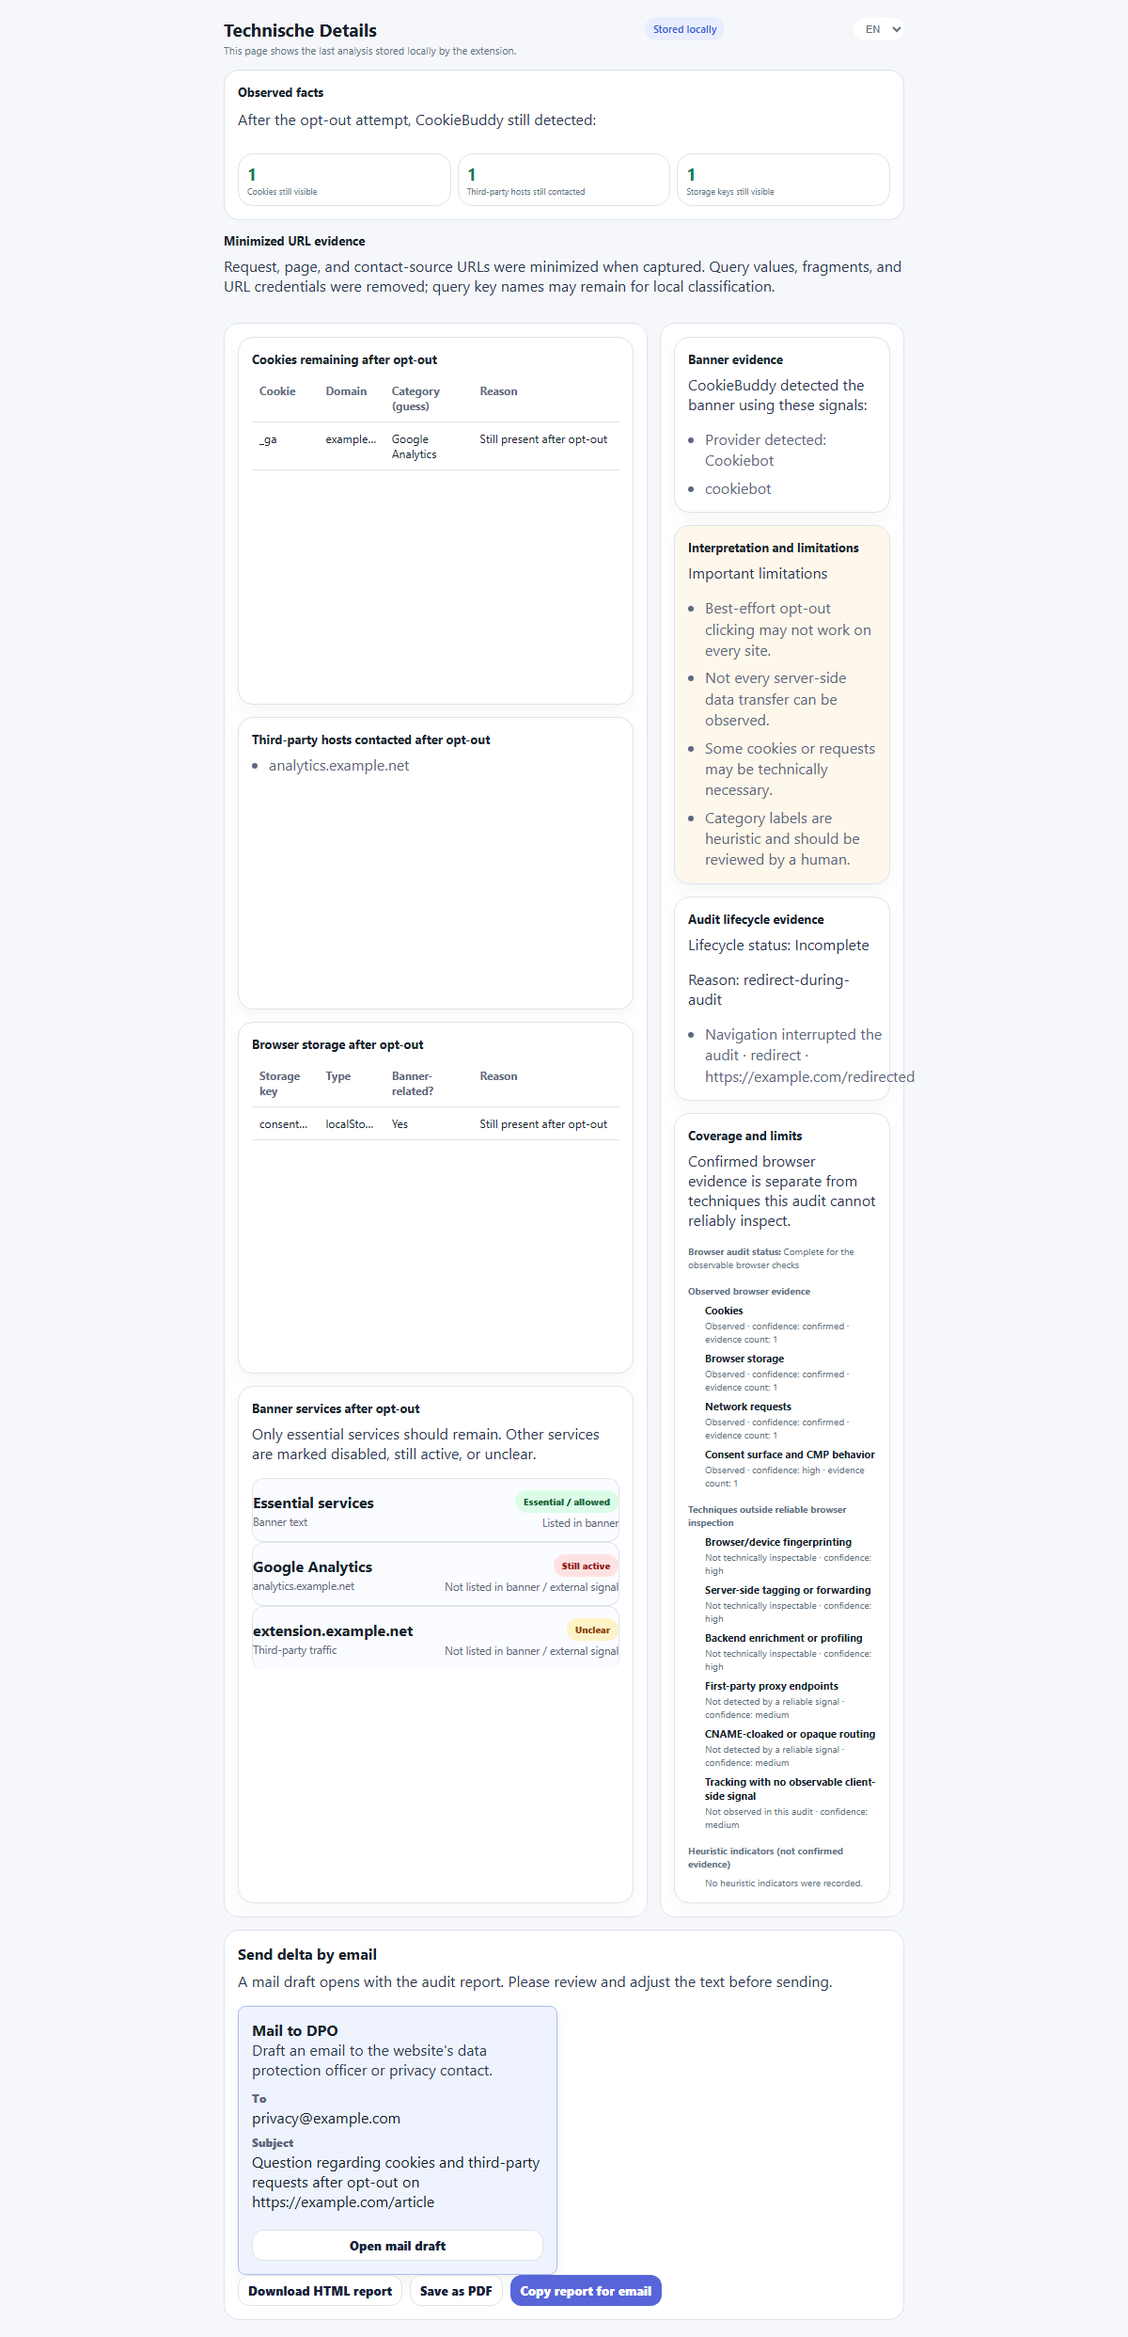
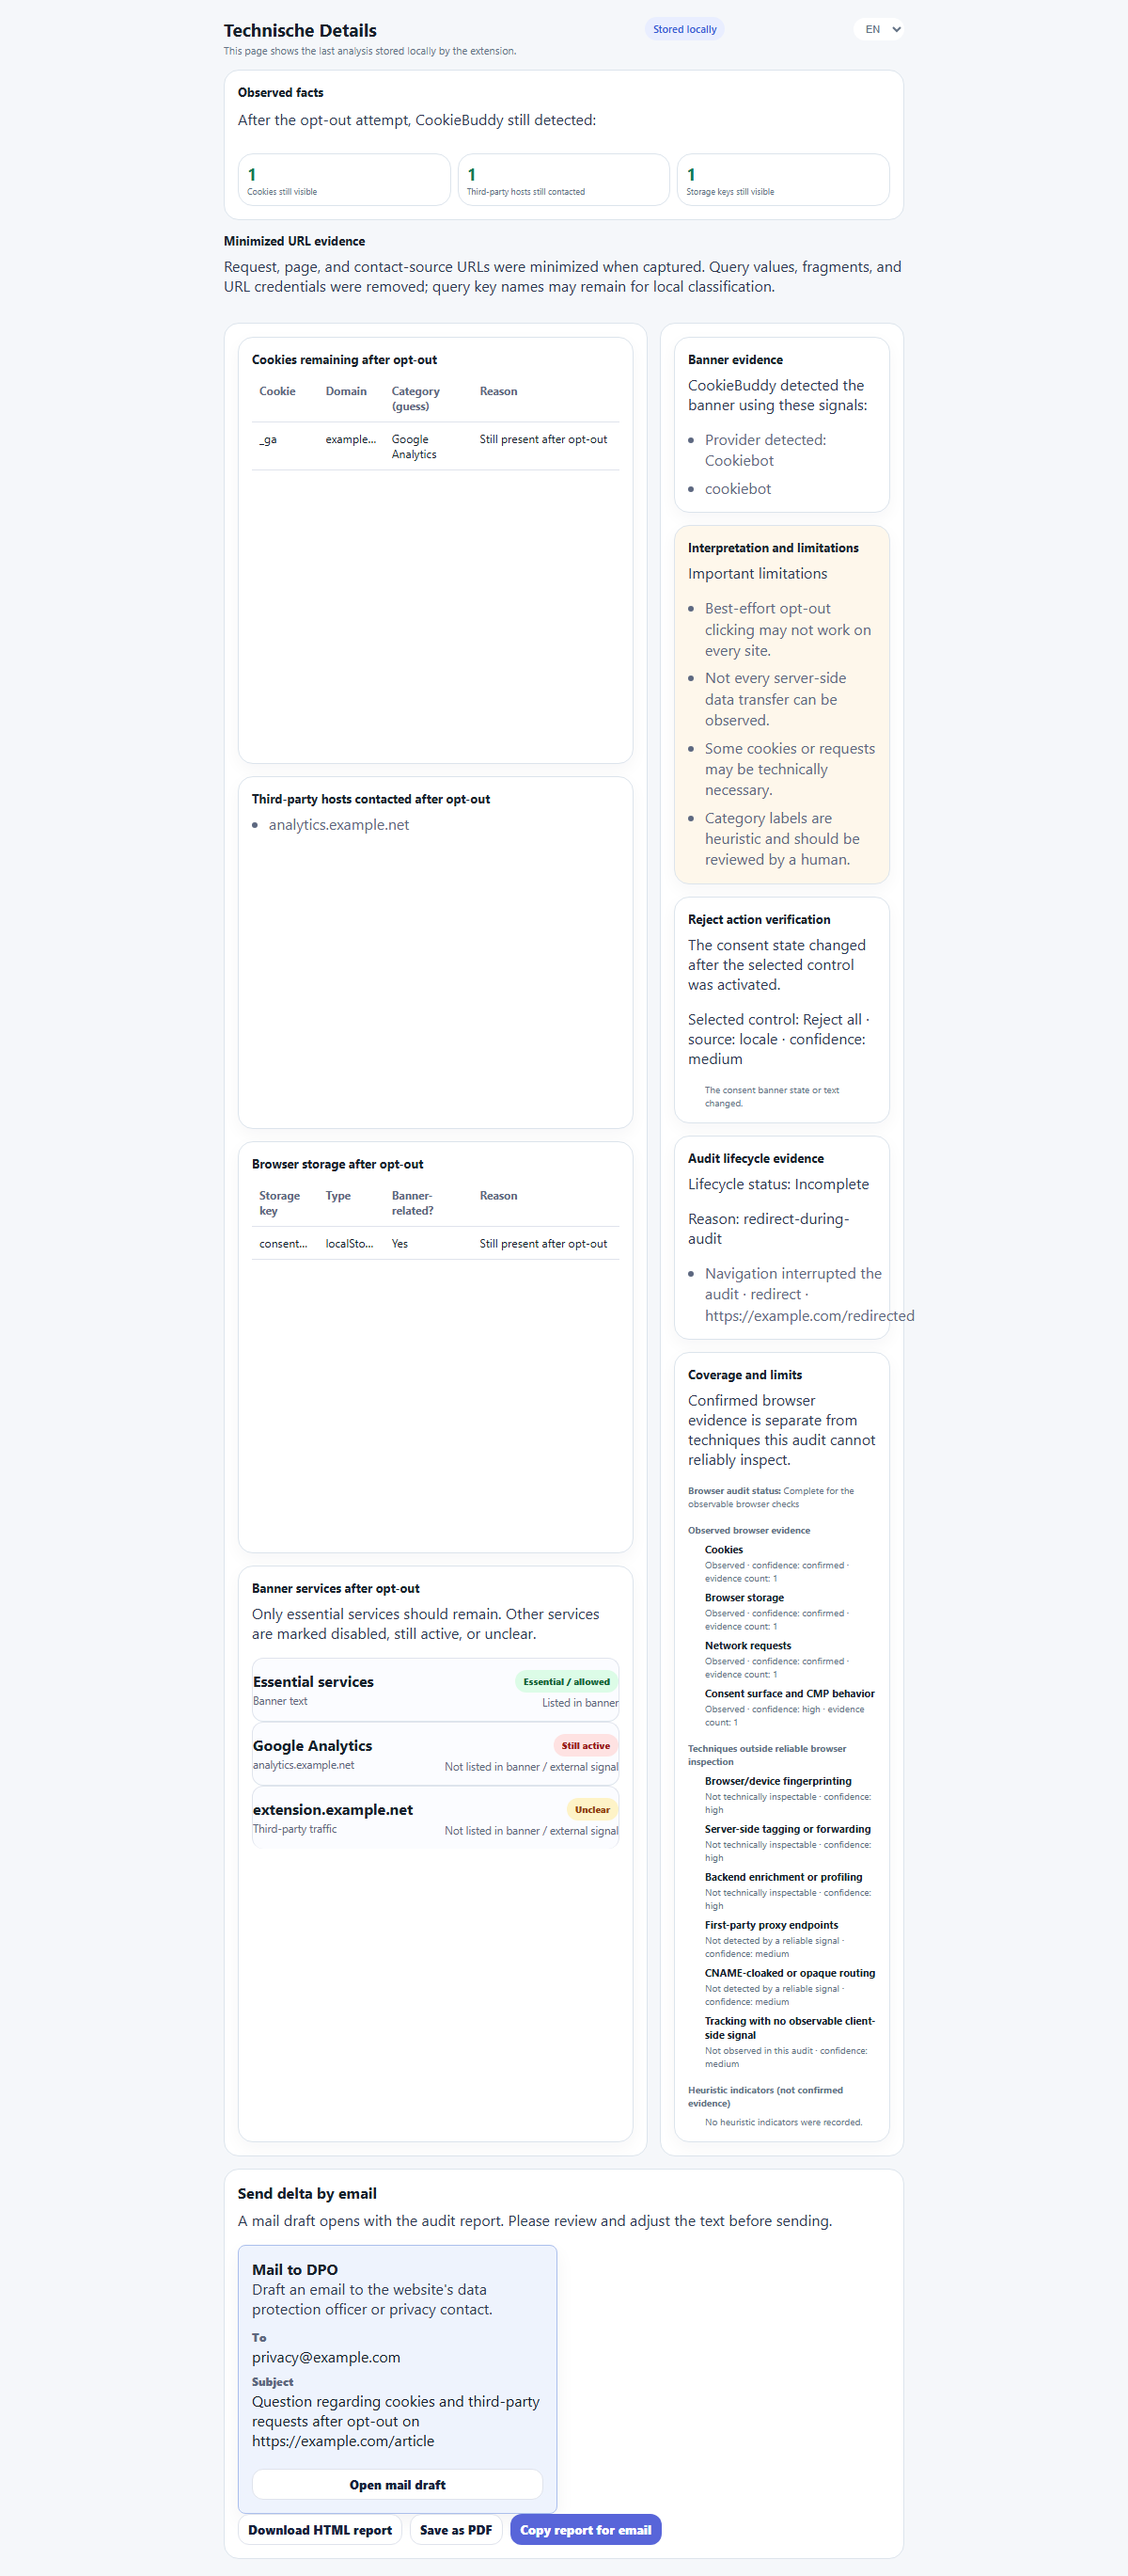
fix: verify consent rejection state changes

diff --git a/src/content.js b/src/content.js
@@ -1,5 +1,7 @@
 // Fallback embedded CMP signatures for when external fetch unavailable
 // Reviewed against common operational CMPs and IAB Europe TCF resources in June 2026.
+// Consent verification is loaded as a module in tests and mirrored here because
+// content scripts are injected as classic scripts in the extension.
 const FALLBACK_CMP_SIGNATURES = [
   { name: "Usercentrics", patterns: ["usercentrics", "uc-settings", "uc-center-container", "uc-privacy", "cmp.usercentrics"] },
   { name: "OneTrust", patterns: ["onetrust", "ot-sdk", "optanon", "cookiepro", "optanonconsent"] },
@@ -481,22 +483,55 @@ async function detectContacts() {
 }
 
 async function tryDenyAll() {
-  const candidates = collectDenyCandidates();
-  const clicked = candidates.find((button) => {
-    try {
-      button.click();
-      return true;
-    } catch {
-      return false;
-    }
-  });
+  let before = collectConsentState();
+  const excluded = new Set();
+  const actions = [];
+  let verification = { status: "unverified", evidence: [] };
 
-  await wait(1400);
+  for (let attempt = 0; attempt < 3; attempt += 1) {
+    const candidates = collectDenyCandidates(excluded);
+    if (!candidates.length) break;
+    const candidate = candidates[0];
+    excluded.add(candidate.element);
+    const label = consentControls?.getAccessibleName(candidate.element) || "";
+    let clicked = false;
+    try {
+      candidate.element.click();
+      clicked = true;
+    } catch {
+      // Continue to the next safe candidate when a control is no longer clickable.
+    }
+    if (!clicked) continue;
+
+    await wait(700);
+    const after = collectConsentState();
+    verification = evaluateConsentStateChange(before, after);
+    actions.push({
+      label: String(label).slice(0, 160),
+      source: candidate.classification.source,
+      confidence: candidate.classification.confidence,
+      status: verification.status,
+      evidence: verification.evidence
+    });
+    if (verification.status === "verified") break;
+    before = after;
+  }
+
+  const firstAction = actions[0];
+  const clicked = actions.length > 0;
+  const found = clicked || collectDenyCandidates().length > 0;
+  const status = verification.status === "verified" ? "verified" : clicked ? "unclear" : "not-attempted";
   return {
-    clicked: Boolean(clicked),
-    label: clicked && consentControls ? consentControls.getAccessibleName(clicked) : "",
-    found: candidates.length > 0,
-    reason: clicked ? "semantic-control-clicked" : candidates.length > 0 ? "safe-control-not-clickable" : "no-safe-control"
+    clicked,
+    verified: status === "verified",
+    label: firstAction?.label || "",
+    found,
+    reason: status === "verified" ? "consent-state-verified" : clicked ? "consent-state-unverified" : "no-safe-control",
+    verification: {
+      status,
+      evidence: [...new Set(actions.flatMap((action) => action.evidence || []))],
+      actions
+    }
   };
 }
 
@@ -546,16 +581,57 @@ function collectBannerOverviewCandidates() {
     .map(({ element }) => element);
 }
 
-function collectDenyCandidates() {
+function collectDenyCandidates(excluded = new Set()) {
   const selectorMatches = DENY_SELECTORS.flatMap((selector) => Array.from(document.querySelectorAll(selector)));
   return Array.from(new Set(selectorMatches))
     .filter((element) => element instanceof HTMLElement)
     .filter(isUsableConsentControl)
     .map((element) => ({ element, classification: classifyConsentElement(element) }))
     .filter(({ classification }) => ["deny-all", "essential-only"].includes(classification.kind) && classification.canClick)
+    .filter(({ element, classification }) => !excluded.has(element) && (isConsentSurfaceElement(element) || classification.source === "cmp"))
     .sort((left, right) => consentControlScore(right.classification) - consentControlScore(left.classification))
     .slice(0, PAGE_ANALYSIS_BUDGETS.maxConsentNodes)
-    .map(({ element }) => element);
+}
+
+function collectConsentState() {
+  const bannerText = normalizeConsentStateText(collectBannerText());
+  const signals = collectDomConsentSignals().map((signal) => signal.value).sort();
+  const candidates = collectDenyCandidates(excluded);
+  const controls = candidates.map(({ element }) => [
+    consentControls?.getAccessibleName(element) || "",
+    element.getAttribute("aria-checked") || "",
+    element.getAttribute("aria-pressed") || "",
+    element.getAttribute("aria-expanded") || "",
+    element.getAttribute("disabled") || ""
+  ].join("~")).sort();
+  return {
+    bannerVisible: Boolean(bannerText || signals.length),
+    bannerSignature: bannerText,
+    consentSignalSignature: signals.join("|") ,
+    controlStateSignature: controls.join("|"),
+    rejectCandidateCount: candidates.length
+  };
+}
+
+function evaluateConsentStateChange(before = {}, after = {}) {
+  const evidence = [];
+  if (before.rejectCandidateCount > after.rejectCandidateCount) evidence.push("reject-control-removed");
+  if (before.consentSignalSignature !== after.consentSignalSignature) evidence.push("consent-signals-changed");
+  if (before.bannerSignature !== after.bannerSignature) evidence.push("banner-state-changed");
+  if (before.controlStateSignature !== after.controlStateSignature) evidence.push("consent-control-state-changed");
+  const changed = evidence.length > 0;
+  const completed = changed && (after.rejectCandidateCount === 0 || after.bannerVisible === false);
+  return { status: completed ? "verified" : changed ? "changed-not-final" : "unverified", evidence };
+}
+
+function normalizeConsentStateText(value) {
+  return String(value || "").toLocaleLowerCase().replace(/\s+/g, " ").trim().slice(0, 3000);
+}
+
+function isConsentSurfaceElement(element) {
+  return Boolean(element.closest?.(
+    "[role='dialog'], [aria-modal='true'], [id*='cookie' i], [class*='cookie' i], [id*='consent' i], [class*='consent' i], [id*='privacy' i], [class*='privacy' i], [data-testid*='cookie' i], [data-testid*='consent' i]"
+  ));
 }
 
 function classifyConsentElement(element) {

diff --git a/src/popup.js b/src/popup.js
@@ -164,7 +164,7 @@ async function runDeltaCheck() {
     if (visualEvidenceItems[0]) visualEvidenceItems[0].rejectControlLabel = String(denyResult?.label || "").slice(0, 160);
     recordAuditEvent("reject");
     setAuditStep("reject", denyResult?.found ? "complete" : "manual", denyResult?.found ? "" : t("auditManualAction"));
-    setAuditStep("verify", denyResult?.clicked ? "complete" : "manual", denyResult?.clicked ? "" : t("auditManualAction"));
+    setAuditStep("verify", denyResult?.verified ? "complete" : "manual", denyResult?.verified ? "" : t("auditManualAction"));
     recordAuditEvent("verify");
     setAuditStep("observe", "active");
     await chrome.runtime.sendMessage({ target: "cookiebuddy-background", type: "CLEAR_TRAFFIC", tabId: state.tab.id });
@@ -195,7 +195,9 @@ async function runDeltaCheck() {
       banner: afterDeny.analysis?.banner || before.analysis?.banner || null,
       bannerCategories: afterDeny.analysis?.categories || before.analysis?.categories || {},
       denyClicked: denyResult?.clicked,
+      denyVerified: denyResult?.verified,
       denyLabel: denyResult?.label,
+      denyVerification: denyResult?.verification,
       manualConsentConfirmed: !denyResult?.found,
       labels: {
         deltaFoundSummary: t("deltaFoundSummary"),
@@ -688,6 +690,7 @@ function renderAuditVerdict(delta, verdict) {
           <span><strong>${escapeHtml(delta.remainingStorageEntries?.length || 0)}</strong>${escapeHtml(t("storageStillVisibleMetric"))}</span>
         </div>
         <p class="muted">${escapeHtml(delta.denyAction?.clicked ? t("clickedDenyControl", delta.denyAction.label || t("detectedButton")) : t("manualDenyAssumed"))}</p>
+        ${renderRejectVerification(delta.denyAction)}
         ${cookieItems.length ? `<h3>${escapeHtml(t("nonEssentialCookiesStillPresent"))}</h3>${cookieItems.map((cookie) => `<p class="chip">${escapeHtml(cookie.name)} · ${escapeHtml(cookie.domain)} · ${escapeHtml(cookie.service)}</p>`).join("")}` : ""}
         ${delta.thirdPartyHosts?.length ? `<h3>${escapeHtml(t("nonEssentialThirdPartyTrafficAfterOptOut"))}</h3>${delta.thirdPartyHosts.slice(0, 10).map((host) => `<p class="chip">${escapeHtml(host)}</p>`).join("")}` : ""}
         ${delta.essentialThirdPartyHosts?.length ? `<h3>${escapeHtml(t("essentialThirdPartyTrafficAllowed"))}</h3>${delta.essentialThirdPartyHosts.slice(0, 10).map((host) => `<p class="chip">${escapeHtml(host)}</p>`).join("")}` : ""}
@@ -705,6 +708,25 @@ function renderAuditVerdict(delta, verdict) {
   elements.deltaResult.innerHTML = html;
   if (elements.statusCardText) elements.statusCardText.textContent = `${meta.title}. ${meta.copy}`;
   return html;
+}
+
+function renderRejectVerification(denyAction = {}) {
+  const verification = denyAction.verification || {};
+  const statusCopy = denyAction.verified
+    ? t("rejectVerificationVerified")
+    : denyAction.clicked ? t("rejectVerificationUnclear") : t("rejectVerificationNotAttempted");
+  const firstAction = verification.actions?.[0];
+  const evidenceLabels = {
+    "reject-control-removed": t("rejectEvidenceControlRemoved"),
+    "consent-signals-changed": t("rejectEvidenceConsentSignals"),
+    "banner-state-changed": t("rejectEvidenceBannerChanged"),
+    "consent-control-state-changed": t("rejectEvidenceControlState")
+  };
+  const evidence = (verification.evidence || []).map((item) => `<li>${escapeHtml(evidenceLabels[item] || item)}</li>`).join("");
+  const selection = firstAction?.label
+    ? `<p class="muted">${escapeHtml(t("rejectControlSelected", [firstAction.label, firstAction.source || "unknown", firstAction.confidence || "unknown"]))}</p>`
+    : "";
+  return `<section class="reject-verification"><h3>${escapeHtml(t("rejectVerificationHeading"))}</h3><p class="muted">${escapeHtml(statusCopy)}</p>${selection}${evidence ? `<ul class="coverage-list">${evidence}</ul>` : ""}</section>`;
 }
 
 function renderCoverageSummary(coverage) {
@@ -880,7 +902,7 @@ async function updateIconStatus(delta = null) {
 function determineIconStatus(delta = null) {
   if (delta) {
     if (delta.riskLevel === "high") return "red";
-    if (delta.denyAction?.clicked && delta.thirdPartyHosts.length === 0 && delta.newCookies.length === 0 && delta.remainingCookies.length === 0) {
+    if (delta.denyAction?.clicked && delta.denyAction?.verified && delta.thirdPartyHosts.length === 0 && delta.newCookies.length === 0 && delta.remainingCookies.length === 0) {
       return "green";
     }
     return "yellow";

diff --git a/src/core.js b/src/core.js
@@ -166,7 +166,9 @@ export function buildDelta({
   banner = null,
   bannerCategories = {},
   denyClicked,
+  denyVerified = false,
   denyLabel,
+  denyVerification = null,
   manualConsentConfirmed,
   labels,
   tabUrl
@@ -190,8 +192,10 @@ export function buildDelta({
     url: minimizeUrlEvidence(tabUrl, { retainQueryKeys: false })?.url || "",
     denyAction: {
       clicked: Boolean(denyClicked),
+      verified: Boolean(denyVerified),
       label: denyLabel || "",
-      manual: Boolean(manualConsentConfirmed && !denyClicked)
+      manual: Boolean(manualConsentConfirmed && !denyClicked),
+      verification: denyVerification || { status: denyVerified ? "verified" : "unverified", evidence: [], actions: [] }
     },
     riskLevel: hasDelta ? "high" : "low",
     summary: hasDelta ? labels.deltaFoundSummary : labels.noDeltaSummary,
@@ -287,7 +291,7 @@ export function createCoverageSummary({ delta = {}, analysisComplete = true, heu
 export function deriveAuditVerdict(delta, { analysisComplete = true } = {}) {
   const coverage = delta?.coverage || createCoverageSummary({ delta, analysisComplete });
   const missingCoverage = [];
-  if (!delta?.denyAction?.clicked) missingCoverage.push("rejection-verification");
+  if (!delta?.denyAction?.clicked || !delta?.denyAction?.verified) missingCoverage.push("rejection-verification");
   if (!delta?.banner || delta.banner.confidence === "none") missingCoverage.push("consent-surface");
   if (!delta?.beforeCounts || !delta?.afterDenyCounts) missingCoverage.push("before-after-observation");
   if (!analysisComplete) missingCoverage.push("page-analysis");
@@ -391,13 +395,21 @@ export function formatDeltaReport(delta, url = "") {
   report += "DENY ACTION DETAILS\n";
   report += "═════════════════════════════════════════\n\n";
 
-  if (delta.denyAction.clicked) {
+  if (delta.denyAction.clicked && delta.denyAction.verified) {
     report += `✓ Deny button successfully clicked: "${delta.denyAction.label}"\n`;
+  } else if (delta.denyAction.clicked) {
+    report += `? Deny button clicked, but the consent change could NOT be verified: "${delta.denyAction.label}"\n`;
   } else {
     report += `✗ Deny button could NOT be clicked automatically\n`;
     if (delta.denyAction.label) {
       report += `  Expected button label: "${delta.denyAction.label}"\n`;
     }
+  }
+  if (delta.denyAction.verification) {
+    report += `  Verification status: ${delta.denyAction.verification.status}\n`;
+    (delta.denyAction.verification.evidence || []).forEach((item) => {
+      report += `  - Verification evidence: ${item}\n`;
+    });
   }
   report += "\n";
 

diff --git a/src/details.js b/src/details.js
@@ -256,6 +256,7 @@ function renderDelta(delta, options = {}) {
             <p class="muted">${escapeHtml(t("importantLimitationsHeading"))}</p>
             ${renderSimpleList([t("deltaLimitationBestEffort"), t("deltaLimitationServerSide"), t("deltaLimitationNecessary"), t("deltaLimitationHeuristic")])}
           </section>
+          ${renderRejectVerification(delta.denyAction)}
           ${renderLifecycleEvidence(delta)}
           ${renderCoverage(coverage)}
         </aside>
@@ -263,6 +264,25 @@ function renderDelta(delta, options = {}) {
       ${renderVisualEvidence(delta, options)}
     </div>
   `;
+}
+
+function renderRejectVerification(denyAction = {}) {
+  const verification = denyAction.verification || {};
+  const statusCopy = denyAction.verified
+    ? t("rejectVerificationVerified")
+    : denyAction.clicked ? t("rejectVerificationUnclear") : t("rejectVerificationNotAttempted");
+  const firstAction = verification.actions?.[0];
+  const evidenceLabels = {
+    "reject-control-removed": t("rejectEvidenceControlRemoved"),
+    "consent-signals-changed": t("rejectEvidenceConsentSignals"),
+    "banner-state-changed": t("rejectEvidenceBannerChanged"),
+    "consent-control-state-changed": t("rejectEvidenceControlState")
+  };
+  const evidence = (verification.evidence || []).map((item) => `<li>${escapeHtml(evidenceLabels[item] || item)}</li>`).join("");
+  const selection = firstAction?.label
+    ? `<p class="muted">${escapeHtml(t("rejectControlSelected", [firstAction.label, firstAction.source || "unknown", firstAction.confidence || "unknown"]))}</p>`
+    : "";
+  return `<section class="reject-verification"><h3>${escapeHtml(t("rejectVerificationHeading"))}</h3><p class="muted">${escapeHtml(statusCopy)}</p>${selection}${evidence ? `<ul class="coverage-list">${evidence}</ul>` : ""}</section>`;
 }
 
 function renderLifecycleEvidence(delta) {

diff --git a/src/audit-flow.css b/src/audit-flow.css
@@ -70,6 +70,8 @@
 .coverage-list { display: grid; gap: 5px; margin: 0; padding-left: 18px; color: var(--muted); font-size: .7rem; }
 .coverage-list li { display: grid; gap: 2px; }
 .coverage-list strong { color: var(--text); font-size: .72rem; }
+.reject-verification { display: grid; gap: 6px; margin-top: 10px; padding-top: 10px; border-top: 1px solid var(--line); }
+.reject-verification h3 { margin: 0; font-size: .78rem; }
 .audit-visual-option { display: grid; gap: 8px; padding: 12px; border: 1px solid var(--line); border-radius: 12px; background: color-mix(in srgb, var(--panel) 86%, var(--accent) 14%); }
 .audit-visual-option h2 { margin: 0; font-size: .9rem; }
 .audit-visual-option p { margin: 0; }

diff --git a/README.md b/README.md
@@ -46,7 +46,7 @@ The source of truth for product acceptance behavior is [`features/cookiebuddy.fe
 | UC-02 | Prefer a DPO contact found in the visited site's privacy policy over a generic contact. |
 | UC-03 | Fall back to a clearly labeled DPO contact in the site's imprint when appropriate. |
 | UC-04 | Run a controlled before/after rejection audit with explicit observation windows and reload. |
-| UC-05 | Verify that reject-all actually changed consent; a successful DOM click alone is insufficient. |
+| UC-05 | Verify that reject-all actually changed consent; a successful DOM click alone is insufficient, and the report records the selected control plus verification evidence. |
 | UC-06 | Detect supported CMP APIs in the page main world and inspect IAB TCF / Google Consent Mode where available. |
 | UC-07 | Flag consent signals that contradict the rejected UI state as high-confidence technical findings. |
 | UC-08 | Preserve concurrent network evidence without request-loss race conditions. |
